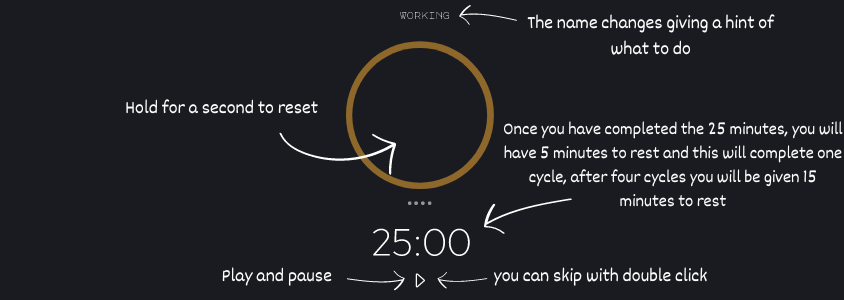
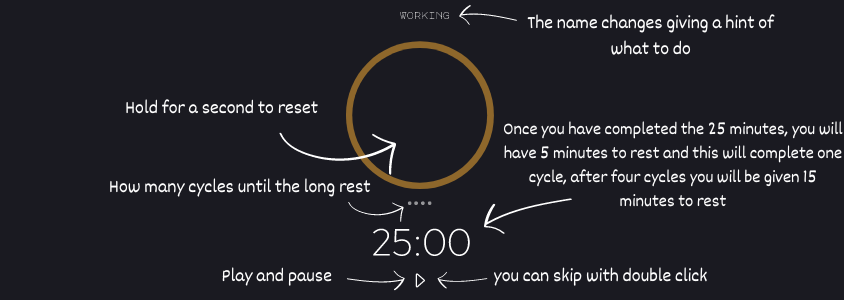
:books: docs: documentation initialized

Changed region(s): [[0.1232, 0.6, 0.4621, 0.66], [0.4313, 0.69, 0.4929, 0.72]]

diff --git a/README.md b/README.md
@@ -1,0 +1,84 @@
+# Pomoeclipse
+> A simple, practical, quick and beautiful pomodoro 
+
+<p align="center">
+    <a href="#Usage-Example"> Usage Example</a> ⚬
+    <a href="#Update-History"> Update History</a> ⚬
+    <a href="#Meta"> Meta</a>
+</p>
+
+<div align="center"> <!--Icon-->
+   <img width="100px" src="/img/PomoEclipse-icon.png">
+</div>
+
+As a pomodoro you will have 25 minutes to study or work. When those 25 minutes are up, you'll get 5 minutes to rest, a short rest and that completes one cycle, and when you've completed four cycles you'll get a long rest.
+![image](img/screenshot-pomoeclipse.png)
+## Usage Example
+As mentioned above, you can use it to increase your productivity both in your studies and at work, without wearing yourself out.
+I recommend studying or working while listening to lo-fi :)
+**Now a short tutorial on how to use pomoeclipse:**
+![image](img/tutorial.png)
+**How the code starts and pauses**
+```js
+function startStop() {
+    audStartStop.play();
+    if (isRunning) {
+        clearInterval(timer);
+        isRunning = false;
+        playerPause.setAttribute('class','bi-caret-right');
+    } else {
+        timer = setInterval(countdown, 1000);
+        isRunning = true;
+        playerPause.setAttribute('class','bi-pause');
+    }    
+}
+```
+**How the code resets**
+```js
+// Reset action to be performed after 1 second
+document.getElementById('reset').addEventListener('mousedown', () => {
+    timeoutId = setTimeout(() => {
+        clearInterval(timer);
+        audReset.play();
+        isRunning = false;
+        document.getElementById('timer-label').innerText = 'Working';
+        document.getElementById('time-left').innerText = '25:00';
+        wheel.style.stroke='#8E672B'
+        wheel.style.strokeDashoffset = 0;
+        playerPause.setAttribute('class','bi-caret-right')
+        //Clear all Cir
+        for(let i=0;i<4;i++){
+            allCir[i].style.color='#ffffff77';
+        }
+    }, 1000);
+});
+
+// Do not execute if aborted before 1 second
+document.getElementById('reset').addEventListener('mouseup', () => {
+    clearTimeout(timeoutId);
+});
+```
+**How the code skips**
+```js
+function skip(){
+    playerPause.setAttribute('class','bi-skip-end');
+    audSkip.play()
+    playerPause.style.transition = '.5s'
+    document.getElementById('time-left').innerText = '00:00';
+}
+```
+I invite you to test the application and read the code, I welcome tips and advice <3
+![image](img/screenshot-pomoeclipse-long-rest.png)
+
+## Update History
+* 0.0.1
+    * Initial project
+
+
+## Meta
+
+<a href="mailto:contato.valtsdigital@protonmail.com?subject=Pomoeclipse&body=Hello i wanna talk about pomoeclipse"> <img width="140" src="https://img.shields.io/badge/ProtonMail-8B89CC?style=for-the-badge&logo=protonmail&logoColor=white"> </a>
+
+Distributed under license. See `IMT LICENSE` for more information.
+
+<a href="https://github.com/FelixClone"> <img width="90" src="https://img.shields.io/badge/github-%23121011.svg?style=for-the-badge&logo=github&logoColor=white" alt="Github"> </a>
